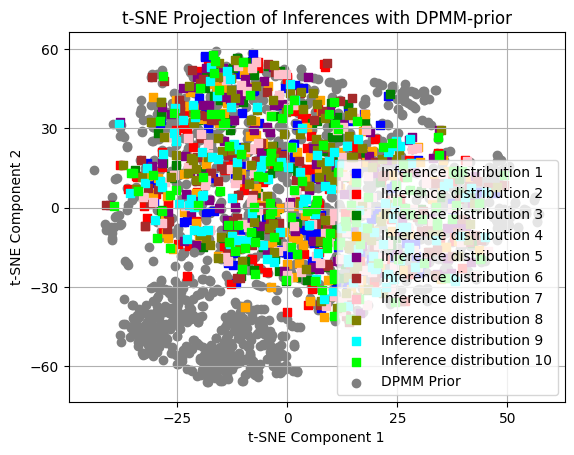
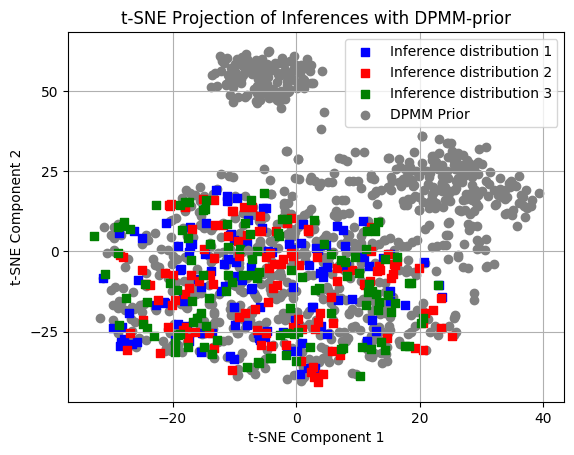
Fixed RL training

diff --git a/DPMM_vis.py b/DPMM_vis.py
@@ -30,7 +30,7 @@ import matplotlib.pyplot as plt
 import matplotlib.markers as mark
 from sklearn.manifold import TSNE
 # Path to the checkpoint
-checkpoint_path = './experiments/skill_prior_learning/kitchen/spirl_DPMM_h_cl_v2/weights/weights_ep99.pth'
+checkpoint_path = './experiments/skill_prior_learning/kitchen/spirl_DPMM_h_cl_v3/weights/weights_ep199.pth'
 
 # Load checkpoint
 checkpoint = torch.load(checkpoint_path)
@@ -150,8 +150,8 @@ def sample_gauss_component(model,
 data_cloud = []
 num_clusters = len(model.comp_mu)
 
-sample_gauss = False # Toggle for additional original Gauss VAE sampling
-sample_gauss_as_other_pic = True # Toggle for additional original Gauss VAE sampling in the different picture
+sample_gauss = True # Toggle for additional original Gauss VAE sampling
+sample_gauss_as_other_pic = False # Toggle for additional original Gauss VAE sampling in the different picture
 
 num_samples = 120
 for k in range(0, num_clusters):
@@ -185,7 +185,7 @@ plt.xlabel('t-SNE Component 1')
 plt.ylabel('t-SNE Component 2')
 plt.grid(True)
 plt.legend()
-plt.savefig('/home/ubuntu/Mikhail/spirl/DPMM_visualisation_v2.png',bbox_inches='tight')
+plt.savefig('/home/ubuntu/Mikhail/spirl/DPMM_visualisation_v3.png',bbox_inches='tight')
 plt.show()
 
 # Toggle for gaussian distribution of original VAE in other picture
@@ -206,7 +206,7 @@ if sample_gauss_as_other_pic:
     plt.ylabel('t-SNE Component 2')
     plt.grid(True)
     plt.legend()
-    plt.savefig('/home/ubuntu/Mikhail/spirl/Gauss_visualisation_v2.png',bbox_inches='tight')
+    plt.savefig('/home/ubuntu/Mikhail/spirl/Gauss_visualisation_v3.png',bbox_inches='tight')
     plt.show()
 
 def latent_space_analysis(model, num_clusters):

diff --git a/SPirL_DPMM_Inference.py b/SPirL_DPMM_Inference.py
@@ -31,7 +31,7 @@ import matplotlib.pyplot as plt
 import matplotlib.markers as mark
 from sklearn.manifold import TSNE
 # Path to the checkpoint
-checkpoint_path = './experiments/skill_prior_learning/kitchen/spirl_DPMM_h_cl_v2/weights/weights_ep65.pth'
+checkpoint_path = './experiments/skill_prior_learning/kitchen/spirl_DPMM_h_cl_v3/weights/weights_ep99.pth'
 
 # Load checkpoint
 checkpoint = torch.load(checkpoint_path)
@@ -179,4 +179,4 @@ print("Prior mu, sigma:",out.q_hat.mu, out.q_hat.log_sigma)
 print("Latent mu, sigma:",out.q.mu, out.q.log_sigma)
 print(out.q_hat.mu.shape)
 
-plot_samples(out=out, model=model, num__samples=120, num_inferences=10)
+plot_samples(out=out, model=model, num__samples=120, num_inferences=3)

diff --git a/spirl/rl/envs/kitchen.py b/spirl/rl/envs/kitchen.py
@@ -17,7 +17,7 @@ class KitchenEnv(GymEnv):
 
     def step(self, *args, **kwargs):
         obs, rew, done, info = super().step(*args, **kwargs)
-        return obs, np.float64(rew), done, info #self._postprocess_info(info)  # casting reward to float64 is important for getting shape later
+        return obs, np.float64(rew), done, self._postprocess_info(info) #info # casting reward to float64 is important for getting shape later
 
     def reset(self):
         self.solved_subtasks = defaultdict(lambda: 0)
